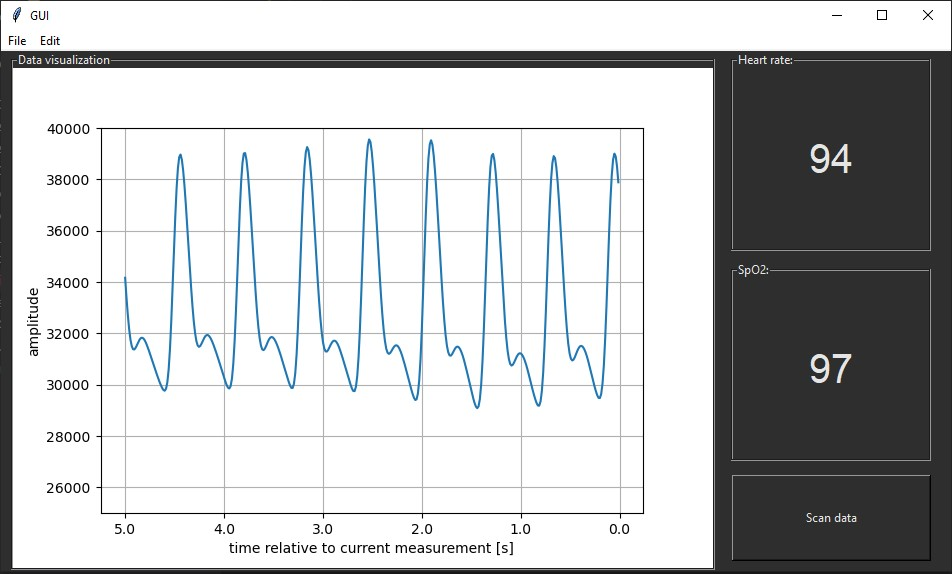
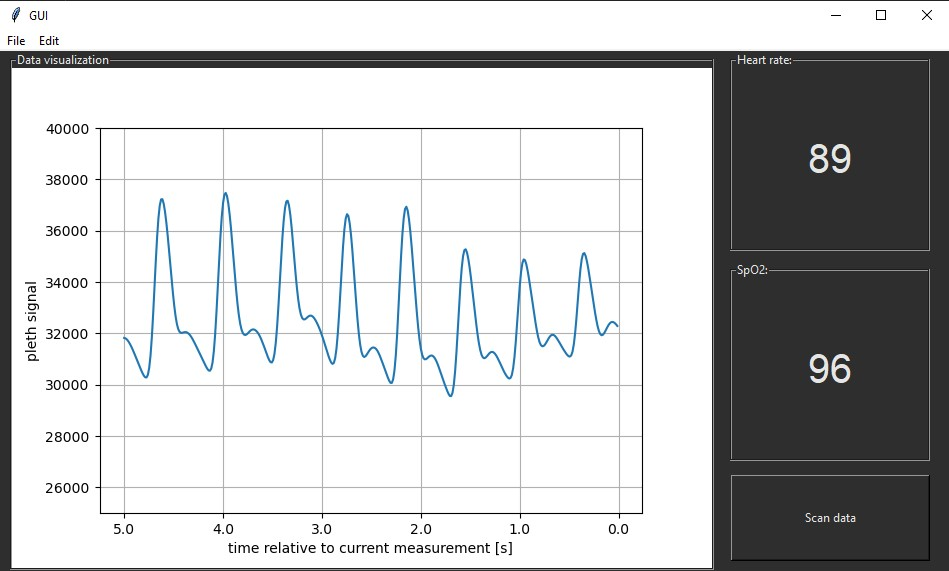
final changes

diff --git a/Application.py b/Application.py
@@ -145,8 +145,8 @@ class Application(tk.Frame):
 
     # helper methods
     def plotData(self):
-        # visualizes data from the read file in GUI in a "real-time-like" motion
-        # plt.rcParams.update({'font.size': 8})
+        # visualizes data from the read file in a matplotlib plot embedde in 
+        # the GUI in a "real-time-like" motion
 
         dataPointer = 0
         window = self.dataset.OxData.window
@@ -155,7 +155,7 @@ class Application(tk.Frame):
 
         step = floor(self.dataset.OxData.Fs/3) # one frame 
 
-        # loop which updates the pleth, HR and SpO2
+        # loop which updates the pleth, HR and SpO2 in the GUI, plot is recreated in each run
         for dataPointer in range(0,numberOfSamples-window,step):
 
             # label figure
@@ -165,7 +165,7 @@ class Application(tk.Frame):
             self.axesHandle.set_xticklabels(xTickLabels, fontdict=None, minor=False)
 
             self.axesHandle.set_xlabel('time relative to current measurement [s]')
-            self.axesHandle.set_ylabel('amplitude')
+            self.axesHandle.set_ylabel('pleth signal')
             self.axesHandle.set_ylim((25000,40000))
             self.axesHandle.grid()
 
